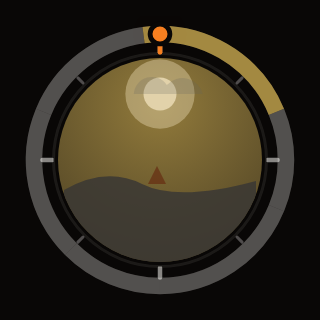
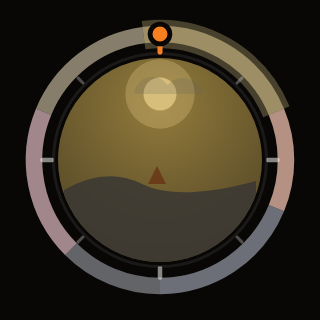
fix(ui): the Waystone dial is a real dial — six band identities, not one lit arc
Owner on :5173: the ring read as "two colors — grey + dark blue", because
only the current band carried a hue and the other five sat on one neutral.

Each of the six TIME_OF_DAY bands now wears its OWN section color, DERIVED
from the sky it actually paints — `waystoneBandTint(phase)` samples the hour
stop table at the band's midpoint, so the ring and the disc move together
and can never disagree (one home). The hues land where the day does: dawn's
golden window, morning's light air, the full-bright afternoon, evening's
amber, night's deep blue, midnight's darkest indigo. Every band is lifted
toward `--color-foreground` for legibility against the bezel — the contrast
pole in BOTH polarities, so the ring reads on the light seed theme too
(eyeballed at 288px, at the real 76px band size, at the 64px mobile floor,
and under data-theme=light).

The CURRENT band's emphasis is now a HALO — a wider, softer arc underneath
in the band's own hue — plus full opacity. A brightness step alone was the
wrong instrument: it reads on the gold bands and vanishes on the indigo
ones, so emphasis had to be hue-agnostic.

Also polarity-fixed the noon sun disc, which the light-theme pass caught
rendering as a dark blob (its foreground lift was too strong at 45%).

Tests: the unit test pins all six tints distinct, non-neutral, and equal to
`waystoneSkyAt(midpoint).from` (the derivation itself is the assertion); the
CT asserts six DISTINCT computed strokes on the ring plus exactly one arc at
[…]

Changed region(s): [[0.0625, 0.0625, 0.9375, 0.9375], [0.375, 0.1875, 0.625, 0.4062]]

diff --git a/packages/ui/src/charts/meter/waystone-geometry.ts b/packages/ui/src/charts/meter/waystone-geometry.ts
@@ -6,6 +6,7 @@
 // Every color here is a theme token or a `color-mix()` over tokens — zero raw literals, so any seed theme
 // restyles the stone for free (D71).
 import type { WaystoneCloudLayer, WaystoneParticleLayer, WaystonePhase } from "./waystone-treatment";
+import { waystoneBandTint } from "./waystone-treatment";
 
 // ─── Geometry (viewBox units) ────────────────────────────────────────────────────────────────────
 export const VIEW = 96;
@@ -51,22 +52,27 @@ export const GLOW_R = 2.1;
 export const GLOW_FLOOR = 0.1;
 export const GLOW_ALTITUDE_GAIN = 0.14;
 export const SKY_UNSET_OPACITY = 0.5;
-export const ARC_DIM_OPACITY = 0.55;
+/** The rest-state opacity of a band that is NOT the current one: quieter, but still unmistakably ITS color. */
+export const ARC_REST_OPACITY = 0.72;
+/** The current band's halo: how far it spreads past the ring, and how strongly (a hue-agnostic "we are here"
+ *  — a pure brightness step reads on the gold bands and disappears on the indigo ones). */
+export const ARC_GLOW_SPREAD = 4;
+export const ARC_GLOW_OPACITY = 0.42;
 export const TICK_W_MINOR = 1;
 export const TICK_W_MAJOR = 1.5;
 
 // ─── Tints (tokens + color-mix ONLY — the §12.1.9 one-home rule for the stone) ───────────────────
-export const ARC_DIM = "color-mix(in oklab, var(--color-muted) 55%, var(--color-foreground))";
-/** The lit arc = the phase we are IN. One ember family for the warm half of the day, track blue for the dark
- *  half — the ring's own coarse day/night read, before the marker is even found. */
-export const ARC_LIT: Readonly<Record<WaystonePhase, string>> = {
-  dawn: "color-mix(in oklab, var(--color-primary) 65%, var(--color-track-3))",
-  morning: "color-mix(in oklab, var(--color-track-3) 70%, var(--color-primary))",
-  afternoon: "color-mix(in oklab, var(--color-track-3) 80%, var(--color-background))",
-  evening: "color-mix(in oklab, var(--color-primary) 75%, var(--color-track-4))",
-  night: "color-mix(in oklab, var(--color-track-2) 55%, var(--color-background))",
-  midnight: "color-mix(in oklab, var(--color-track-2) 38%, var(--color-background))",
-};
+/** The dial band strokes. Each of the six segments wears its OWN band identity (`waystoneBandTint` — the sky
+ *  that part of the day actually paints), lifted toward the foreground so a dark band still reads against the
+ *  bezel; the CURRENT band is lifted further and runs at full opacity, so "we are here" is a brightness step
+ *  within one hue family rather than the only color on an otherwise grey ring (owner, 2026-07-31). */
+export function arcStroke(phase: WaystonePhase, lit: boolean): string {
+  return `color-mix(in oklab, ${waystoneBandTint(phase)} ${lit ? ARC_LIT_MIX : ARC_REST_MIX}%, var(--color-foreground))`;
+}
+/** How much of the band's own hue survives the legibility lift — the LIT band keeps more of itself (it is
+ *  already the brightest thing on the ring), a resting band trades a little hue for luminance. */
+const ARC_LIT_MIX = 74;
+const ARC_REST_MIX = 52;
 export const TICK_STROKE = "color-mix(in oklab, var(--color-foreground) 30%, transparent)";
 export const TICK_MAJOR_STROKE = "color-mix(in oklab, var(--color-foreground) 55%, transparent)";
 /** The horizon silhouette — a foreground-shifted sidebar tone (polarity-safe contrast, no raw black). */

diff --git a/tests/ui/charts/meter/waystone.ct.tsx b/tests/ui/charts/meter/waystone.ct.tsx
@@ -24,6 +24,15 @@ test("the clock reads: 24h dial arcs, the bezel hour scale, and the ember hand s
   await expect(component.locator("[data-slot=waystone-arc][data-lit=true]")).toHaveCount(1);
   await expect(component.locator("[data-slot=waystone-arc][data-lit=true]")).toHaveAttribute("data-arc-phase", "afternoon");
   await expect(component.locator("[data-slot=waystone-ticks] line")).toHaveCount(8);
+  // A REAL DIAL: all six bands paint their own identity hue (the owner's "grey + dark blue" read was one lit
+  // band on an otherwise neutral ring), and the current one is the brightest — a step within its own hue.
+  const strokes = await component.locator("[data-slot=waystone-arc]").evaluateAll((els) => els.map((el) => getComputedStyle(el).stroke));
+  expect(new Set(strokes).size).toBe(6);
+  const opacities = await component
+    .locator("[data-slot=waystone-arc]")
+    .evaluateAll((els) => els.map((el) => `${getComputedStyle(el).opacity}:${el.getAttribute("data-lit")}`));
+  expect(opacities.filter((o) => o.endsWith(":true"))).toEqual(["1:true"]);
+  expect(opacities.filter((o) => o.startsWith("1:") && o.endsWith(":false"))).toEqual([]);
   // Noon = the top of the dial: the hand's dot sits above the stone's centre and horizontally on it.
   const stone = (await component.boundingBox()) ?? { x: 0, y: 0, width: 0, height: 0 };
   const dot = (await component.locator("[data-slot=waystone-marker-dot]").boundingBox()) ?? { x: 0, y: 0, width: 0, height: 0 };
@@ -115,12 +124,14 @@ test("a state change TRANSITIONS: the hand swings, the sky MELTS between hours, 
   await expect(component).toHaveAttribute("data-phase", "night");
   // NEVER A HARD SWAP: neither the hand nor the sky has arrived the frame after the change…
   const midAngle = await hand.evaluate((el) => getComputedStyle(el).rotate);
-  expect(midAngle).not.toBe("135deg");
   const midSky = await skyFrom.evaluate((el) => getComputedStyle(el).stopColor);
-  expect(midSky).toBe(dawnSky);
+  expect(midAngle).not.toBe("135deg");
   // …and both land on the new hour once the transit completes (a real interpolation, not a swap).
   await expect.poll(async () => hand.evaluate((el) => getComputedStyle(el).rotate)).toBe("135deg");
   await expect.poll(async () => skyFrom.evaluate((el) => getComputedStyle(el).stopColor)).not.toBe(dawnSky);
+  // The mid-flight sky sample was neither the old sky nor the settled one — it was caught IN the melt.
+  const settledSky = await skyFrom.evaluate((el) => getComputedStyle(el).stopColor);
+  expect(midSky).not.toBe(settledSky);
   // The new weather layer ENTERS on a fade rather than popping.
   await expect(component.locator("[data-slot=waystone-precip-enter]")).toHaveCSS("animation-name", "orb-ws-enter");
 });

diff --git a/tests/ui/charts/meter/waystone-treatment.test.ts b/tests/ui/charts/meter/waystone-treatment.test.ts
@@ -17,6 +17,7 @@ import {
   WAYSTONE_PHASES,
   WAYSTONE_SKY_STOPS,
   WAYSTONE_WEATHERS,
+  waystoneBandTint,
   waystoneCelestialAt,
   waystonePhaseAtHour,
   waystoneSkyAt,
@@ -255,6 +256,33 @@ test("the dial's hour buckets match the contract's nearest-TIME_OF_DAY_HOURS lab
     "night",
   ];
   expect(HOURS.map((hour) => waystonePhaseAtHour(hour))).toEqual([...expected]);
+});
+
+test("every dial band carries its OWN identity hue, derived from the sky it paints (never a grey ring)", () => {
+  // The owner's read of the first build: the ring showed "two colors — grey + dark blue", because only the
+  // current band was tinted. A dial has SECTIONS: all six bands are their own color, and the derivation is the
+  // sky stop table sampled at the band's midpoint, so the ring and the disc can never disagree.
+  const tints = WAYSTONE_PHASES.map((phase) => waystoneBandTint(phase));
+  expect(new Set(tints).size).toBe(WAYSTONE_PHASES.length);
+  for (const tint of tints) {
+    expect(tint).toMatch(TOKEN_COLOR_RE);
+    // No band falls back to a neutral: a grey would be a `--color-muted`/`--color-border` recipe.
+    expect(tint).not.toContain("var(--color-muted)");
+    expect(tint).not.toContain("var(--color-border)");
+  }
+  // DERIVED, not re-authored: each band's tint IS the sky's `from` at that band's midpoint hour.
+  for (const span of WAYSTONE_PHASE_SPANS) {
+    expect(waystoneBandTint(span.phase), `${span.phase} tint must come from the stop table`).toBe(waystoneSkyAt((span.from + span.to) / 2).from);
+  }
+  // …and the identities are the ones the day actually has: the golden bands reach for the ember token, the
+  // dark bands for the night track. (dawn/evening being neighbours in hue is honest — their dial POSITIONS,
+  // opposite sides of the ring, are what separate them.)
+  expect(waystoneBandTint("dawn")).toContain("var(--color-primary)");
+  expect(waystoneBandTint("evening")).toContain("var(--color-primary)");
+  expect(waystoneBandTint("afternoon")).toContain("var(--color-track-3)");
+  expect(waystoneBandTint("afternoon")).not.toContain("var(--color-primary)");
+  expect(waystoneBandTint("night")).toContain("var(--color-track-2)");
+  expect(waystoneBandTint("midnight")).toContain("var(--color-track-2)");
 });
 
 test("the dial's phase spans tile the whole 24h ring exactly once (no gap, no overlap, one arc per label)", () => {

diff --git a/packages/ui/src/charts/meter/waystone-layers.tsx b/packages/ui/src/charts/meter/waystone-layers.tsx
@@ -9,12 +9,13 @@
 import type { CSSProperties, ReactElement } from "react";
 import { cn } from "#lib";
 import {
-  ARC_DIM,
-  ARC_DIM_OPACITY,
-  ARC_LIT,
+  ARC_GLOW_OPACITY,
+  ARC_GLOW_SPREAD,
+  ARC_REST_OPACITY,
   ASH_DOT_R,
   ASH_FILL,
   arcPath,
+  arcStroke,
   BOLT_STROKE,
   CLOUD_DARK,
   CLOUD_DRIFT_CLASS,
@@ -138,20 +139,38 @@ export function BandLayer({ layer }: { readonly layer: WaystoneBandLayer }): Rea
   );
 }
 
-/** LAYER 0 — the 24h dial: the six label arcs (the one we are IN lit) over the neutral track. */
+/** LAYER 0 — the 24h dial: SIX label arcs, each in its OWN band identity (a real dial where every segment is
+ *  its own section, never a grey ring with one lit piece), the current one lifted to full opacity. */
 export function DialArcs({ litPhase }: { readonly litPhase: WaystonePhase }): ReactElement {
+  const litSpan = WAYSTONE_PHASE_SPANS.find((s) => s.phase === litPhase) ?? WAYSTONE_PHASE_SPANS[0];
+  if (litSpan === undefined) {
+    throw new Error("waystone: the dial has no bands");
+  }
   return (
     <>
+      {/* The current band's GLOW: a wider, softer arc UNDER the ring in the band's own hue. Emphasis has to
+          be hue-agnostic — a brightness step alone reads on the gold bands and vanishes on the indigo ones,
+          so "we are here" is a halo, not a shade. */}
+      <path
+        d={arcPath(litSpan.from, litSpan.to)}
+        className="orb-ws-transit"
+        stroke={arcStroke(litPhase, true)}
+        strokeWidth={RING_W + ARC_GLOW_SPREAD}
+        fill="none"
+        strokeLinecap="butt"
+        opacity={ARC_GLOW_OPACITY}
+        data-slot="waystone-arc-glow"
+      />
       {WAYSTONE_PHASE_SPANS.map((span) => (
         <path
           key={`${span.phase}-${span.from}`}
           d={arcPath(span.from, span.to)}
           className="orb-ws-transit"
-          stroke={span.phase === litPhase ? ARC_LIT[span.phase] : ARC_DIM}
+          stroke={arcStroke(span.phase, span.phase === litPhase)}
           strokeWidth={RING_W}
           fill="none"
           strokeLinecap="butt"
-          opacity={span.phase === litPhase ? 1 : ARC_DIM_OPACITY}
+          opacity={span.phase === litPhase ? 1 : ARC_REST_OPACITY}
           data-slot="waystone-arc"
           data-arc-phase={span.phase}
           data-lit={span.phase === litPhase}

diff --git a/packages/ui/src/charts/meter/waystone-treatment.ts b/packages/ui/src/charts/meter/waystone-treatment.ts
@@ -268,7 +268,10 @@ const BODY_R_LOW = 6.4;
 const BODY_R_SHRINK = 0.9;
 
 const SUN_LOW = "color-mix(in oklab, var(--color-primary) 82%, var(--color-track-3))";
-const SUN_HIGH = "color-mix(in oklab, var(--color-track-3) 45%, var(--color-foreground))";
+// The bright-noon disc. The lift is toward `--color-foreground` — the contrast pole in BOTH polarities, so
+// the sun reads as a lifted disc on a dark theme and as a deeper, more saturated one on a light theme (there
+// is deliberately no polarity-constant "white" token; mixing toward `background` would sink it into the sky).
+const SUN_HIGH = "color-mix(in oklab, var(--color-track-3) 75%, var(--color-foreground))";
 const MOON_LOW = "color-mix(in oklab, var(--color-foreground) 60%, var(--color-track-4))";
 const MOON_HIGH = "color-mix(in oklab, var(--color-foreground) 88%, var(--color-track-2))";
 
@@ -428,4 +431,15 @@ export const WAYSTONE_PHASE_SPANS: readonly WaystonePhaseSpan[] = [
 export function waystonePhaseAtHour(hour: number): WaystonePhase {
   const span = WAYSTONE_PHASE_SPANS.find((s) => hour >= s.from && hour < s.to);
   return span?.phase ?? "midnight";
+}
+
+/** A band's IDENTITY hue: the sky this part of the day actually paints, sampled at the band's MIDPOINT hour.
+ *  The dial is a real dial — every segment carries its own section color (dawn's golden window · morning's
+ *  light air · the full-bright afternoon · evening's amber · night's deep blue · midnight's darkest indigo),
+ *  never a neutral grey. DERIVED from the one sky stop table, so a palette edit moves the ring and the disc
+ *  together and they can never disagree (the §12.1.9 one-home rule for the stone). */
+export function waystoneBandTint(phase: WaystonePhase): string {
+  const span = WAYSTONE_PHASE_SPANS.find((s) => s.phase === phase);
+  const midpoint = span === undefined ? 0 : (span.from + span.to) / 2;
+  return waystoneSkyAt(midpoint).from;
 }

diff --git a/packages/ui/src/charts/meter/index.ts b/packages/ui/src/charts/meter/index.ts
@@ -35,6 +35,7 @@ export {
   WAYSTONE_PHASES,
   WAYSTONE_SKY_STOPS,
   WAYSTONE_WEATHERS,
+  waystoneBandTint,
   waystoneCelestialAt,
   waystonePhaseAtHour,
   waystoneSkyAt,
